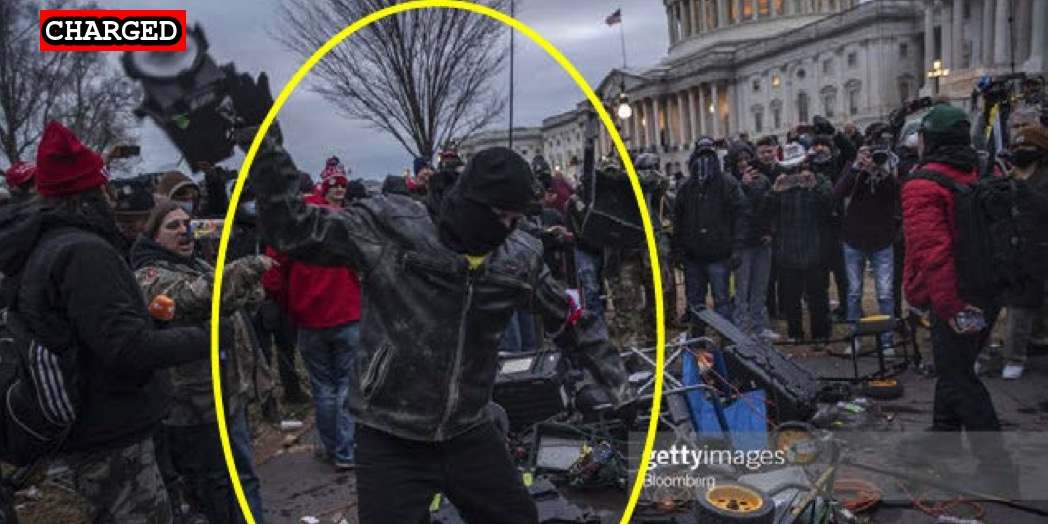
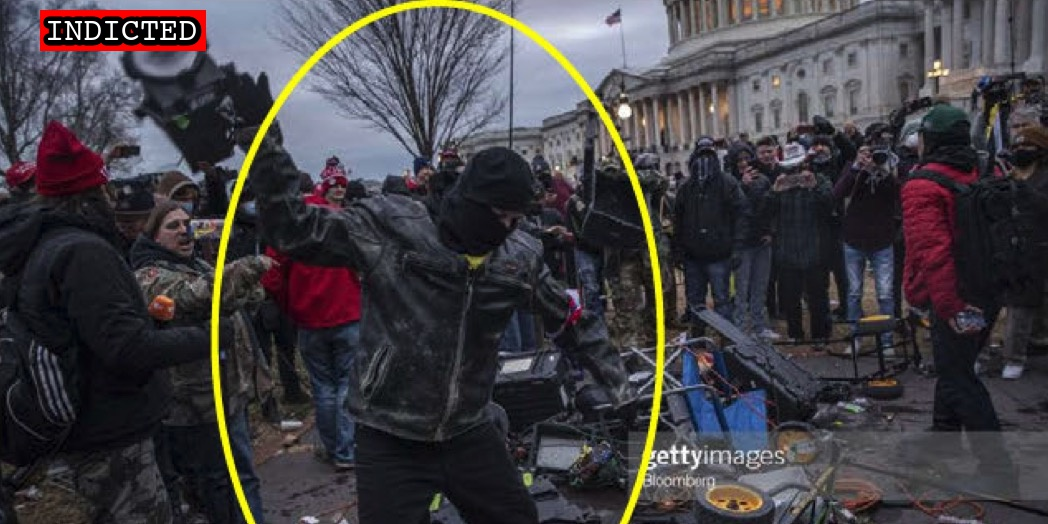
Latest import

Changed region(s): [[0.0305, 0.0, 0.2137, 0.1221]]

diff --git a/commands/suspect-import.ts b/commands/suspect-import.ts
@@ -219,6 +219,10 @@ const importDoj = async (nameSet: Set<string>) => {
       name = "Gillespie, Vincent";
     }
 
+    if (name == "YAZDANI, Elijah") {
+      name = "Yazdani-Isfehani, Loammi";
+    }
+
     const nameChunks = name.split(",");
 
     const lastName = toLower(nameChunks[0])
@@ -587,6 +591,7 @@ const linkType = (description: string, lastName?: string) => {
       return "Defense Reply to Opposition to Motion to Dismiss";
 
     case /Defense Objection to Government Summary of Sentencing Range/.test(description):
+    case /Defense Response to Government/.test(description) && lastName === "Croy":
       return "Defense Objection to Sentencing Guidelines";
 
     // press release

diff --git a/docs/_suspects/lloyd-cruz.md b/docs/_suspects/lloyd-cruz.md
@@ -1,0 +1,41 @@
+---
+name: Lloyd Cruz
+lastName: Cruz
+hashtag:
+aka:
+residence: Missouri
+status: Charged
+date: 2022-02-25
+charged: 2022-02-25
+indicted:
+convicted:
+sentenced:
+dismissed:
+deceased:
+plea_hearing:
+sentencing:
+age:
+occupation:
+affiliations:
+jurisdiction: Federal
+image: /images/preview/lloyd-cruz.jpg
+suspect: lloyd-cruz.jpg
+booking:
+courtroom:
+courthouse:
+raid:
+perpwalk:
+quote:
+title: Lloyd Cruz charged on February 25, 2022
+description: Click for latest case details. Suspects innocent until proven guilty.
+author: seditiontrack
+layout: suspect
+published: false
+caseNumber:
+videos:
+charges:
+sentence:
+---
+
+- [News Report]()
+- [Statement of Facts](https://extremism.gwu.edu/sites/g/files/zaxdzs2191/f/Lloyd%20Casimiro%20Cruz%20Jr%20Statement%20of%20Facts.pdf)

diff --git a/docs/_suspects/joshua-haynes.md b/docs/_suspects/joshua-haynes.md
@@ -4,7 +4,7 @@ lastName: Haynes
 hashtag: HarleySmashAOM
 aka:
 residence: Virginia
-status: Charged
+status: Indicted
 date: 2021-07-01
 charged: 2021-07-01
 indicted:
@@ -36,7 +36,7 @@ videos:
 charges:
 sentence:
 ---
-
 - [News Report](https://www.msn.com/en-us/news/crime/covington-man-arrested-charged-in-connection-with-capitol-attacks/ar-AALG1lP)
 - [Statement of Facts](https://www.justice.gov/usao-dc/case-multi-defendant/file/1408561/download)
 - [Incriminating Evidence (VIDEO)](https://vimeo.com/498179103)
+- [Indictment](https://extremism.gwu.edu/sites/g/files/zaxdzs2191/f/Joshua%20Dillon%20Haynes%20Indictment.pdf)

diff --git a/docs/_suspects/glenn-croy.md b/docs/_suspects/glenn-croy.md
@@ -50,3 +50,4 @@ sentence:
 - [Information](https://www.justice.gov/usao-dc/case-multi-defendant/file/1377836/download)
 - [Plea Agreement](https://www.justice.gov/usao-dc/case-multi-defendant/file/1422521/download)
 - [Sentencing Memo](https://extremism.gwu.edu/sites/g/files/zaxdzs2191/f/Glenn%20Croy%20Defense%20Response%20to%20Government%20Sentencing%20Memorandum.pdf)
+- [Defense Objection to Sentencing Guidelines](https://extremism.gwu.edu/sites/g/files/zaxdzs2191/f/Glenn%20Croy%20Defense%20Response%20to%20Government%20Sentencing%20Memorandum.pdf)

diff --git a/docs/_suspects/adam-weibling.md b/docs/_suspects/adam-weibling.md
@@ -39,3 +39,4 @@ sentence:
 - [News Report](https://www.houstonpublicmedia.org/articles/news/criminal-justice/2021/05/26/399105/seventh-houston-area-resident-arrested-in-connection-to-capitol-insurrection/)
 - [Statement of Facts](https://www.justice.gov/usao-dc/case-multi-defendant/file/1398256/download)
 - [Complaint](https://www.justice.gov/usao-dc/case-multi-defendant/file/1398261/download)
+- [Information](https://extremism.gwu.edu/sites/g/files/zaxdzs2191/f/Adam%20Mark%20Weibling%20Information.pdf)

diff --git a/docs/_suspects/karol-chwiesiuk.md b/docs/_suspects/karol-chwiesiuk.md
@@ -39,3 +39,4 @@ sentence:
 - [News Report](https://chicago.cbslocal.com/2021/06/11/cpd-officer-charged-capitol-riot/)
 - [Statement of Facts](https://www.justice.gov/usao-dc/case-multi-defendant/file/1403441/download)
 - [Defense Motion for Modification of Bond](https://extremism.gwu.edu/sites/g/files/zaxdzs2191/f/Karol%20Chwiesiuk%20Motion%20to%20Mofidy%20Conditions%20of%20Release.pdf)
+- [Information](https://extremism.gwu.edu/sites/g/files/zaxdzs2191/f/Karol%20Chwiesiuk%20Information.pdf)

diff --git a/docs/_suspects/joshua-dressel.md b/docs/_suspects/joshua-dressel.md
@@ -39,3 +39,4 @@ sentence:
 - [News Report](https://www.stltoday.com/news/local/crime-and-courts/festus-man-streamed-capitol-riot-video-to-facebook-court-documents-say/article_15c8ff19-3032-5486-8a23-ba88d225f092.html)
 - [Statement of Facts](https://www.justice.gov/usao-dc/case-multi-defendant/file/1412326/download)
 - [Incriminating Evidence (Video)](https://youtu.be/MDg1NG4C2Z0)
+- [Information](https://extremism.gwu.edu/sites/g/files/zaxdzs2191/f/Joshua%20Dressel%20Information.pdf)

diff --git a/docs/_suspects/loammi-yazdani-isfehani.md b/docs/_suspects/loammi-yazdani-isfehani.md
@@ -36,7 +36,7 @@ videos:
 charges:
 sentence:
 ---
-
 - [News Report](https://sports.yahoo.com/two-athens-county-sisters-join-205327176.html)
 - [Complaint](https://www.justice.gov/usao-dc/case-multi-defendant/file/1477206/download)
 - [Statement of Facts](https://www.justice.gov/usao-dc/case-multi-defendant/file/1477211/download)
+- [Information](https://www.justice.gov/usao-dc/case-multi-defendant/file/1460181/download)

diff --git a/docs/_suspects/joseph-irwin.md b/docs/_suspects/joseph-irwin.md
@@ -38,3 +38,4 @@ sentence:
 ---
 - [News Report](https://www.wave3.com/2021/08/17/former-hardin-county-sheriff-deputy-arrested-connection-with-us-capitol-riot/)
 - [Statement of Facts](https://extremism.gwu.edu/sites/g/files/zaxdzs2191/f/Joseph%20Irwin%20Statement%20of%20Facts.pdf)
+- [Information](https://extremism.gwu.edu/sites/g/files/zaxdzs2191/f/Joseph%20Irwin%20Information.pdf)

diff --git a/docs/_suspects/donald-smith.md b/docs/_suspects/donald-smith.md
@@ -38,3 +38,4 @@ sentence:
 ---
 - [News Report](https://phillynews.fyi/30742/maga-rioter-bragged-that-breaking-into-pelosis-office-was-best-day-of-his-life-to-coworkers-feds/)
 - [Statement of Facts](https://www.justice.gov/usao-dc/case-multi-defendant/file/1419026/download)
+- [Information](https://extremism.gwu.edu/sites/g/files/zaxdzs2191/f/Donald%20Smith%20Information.pdf)
